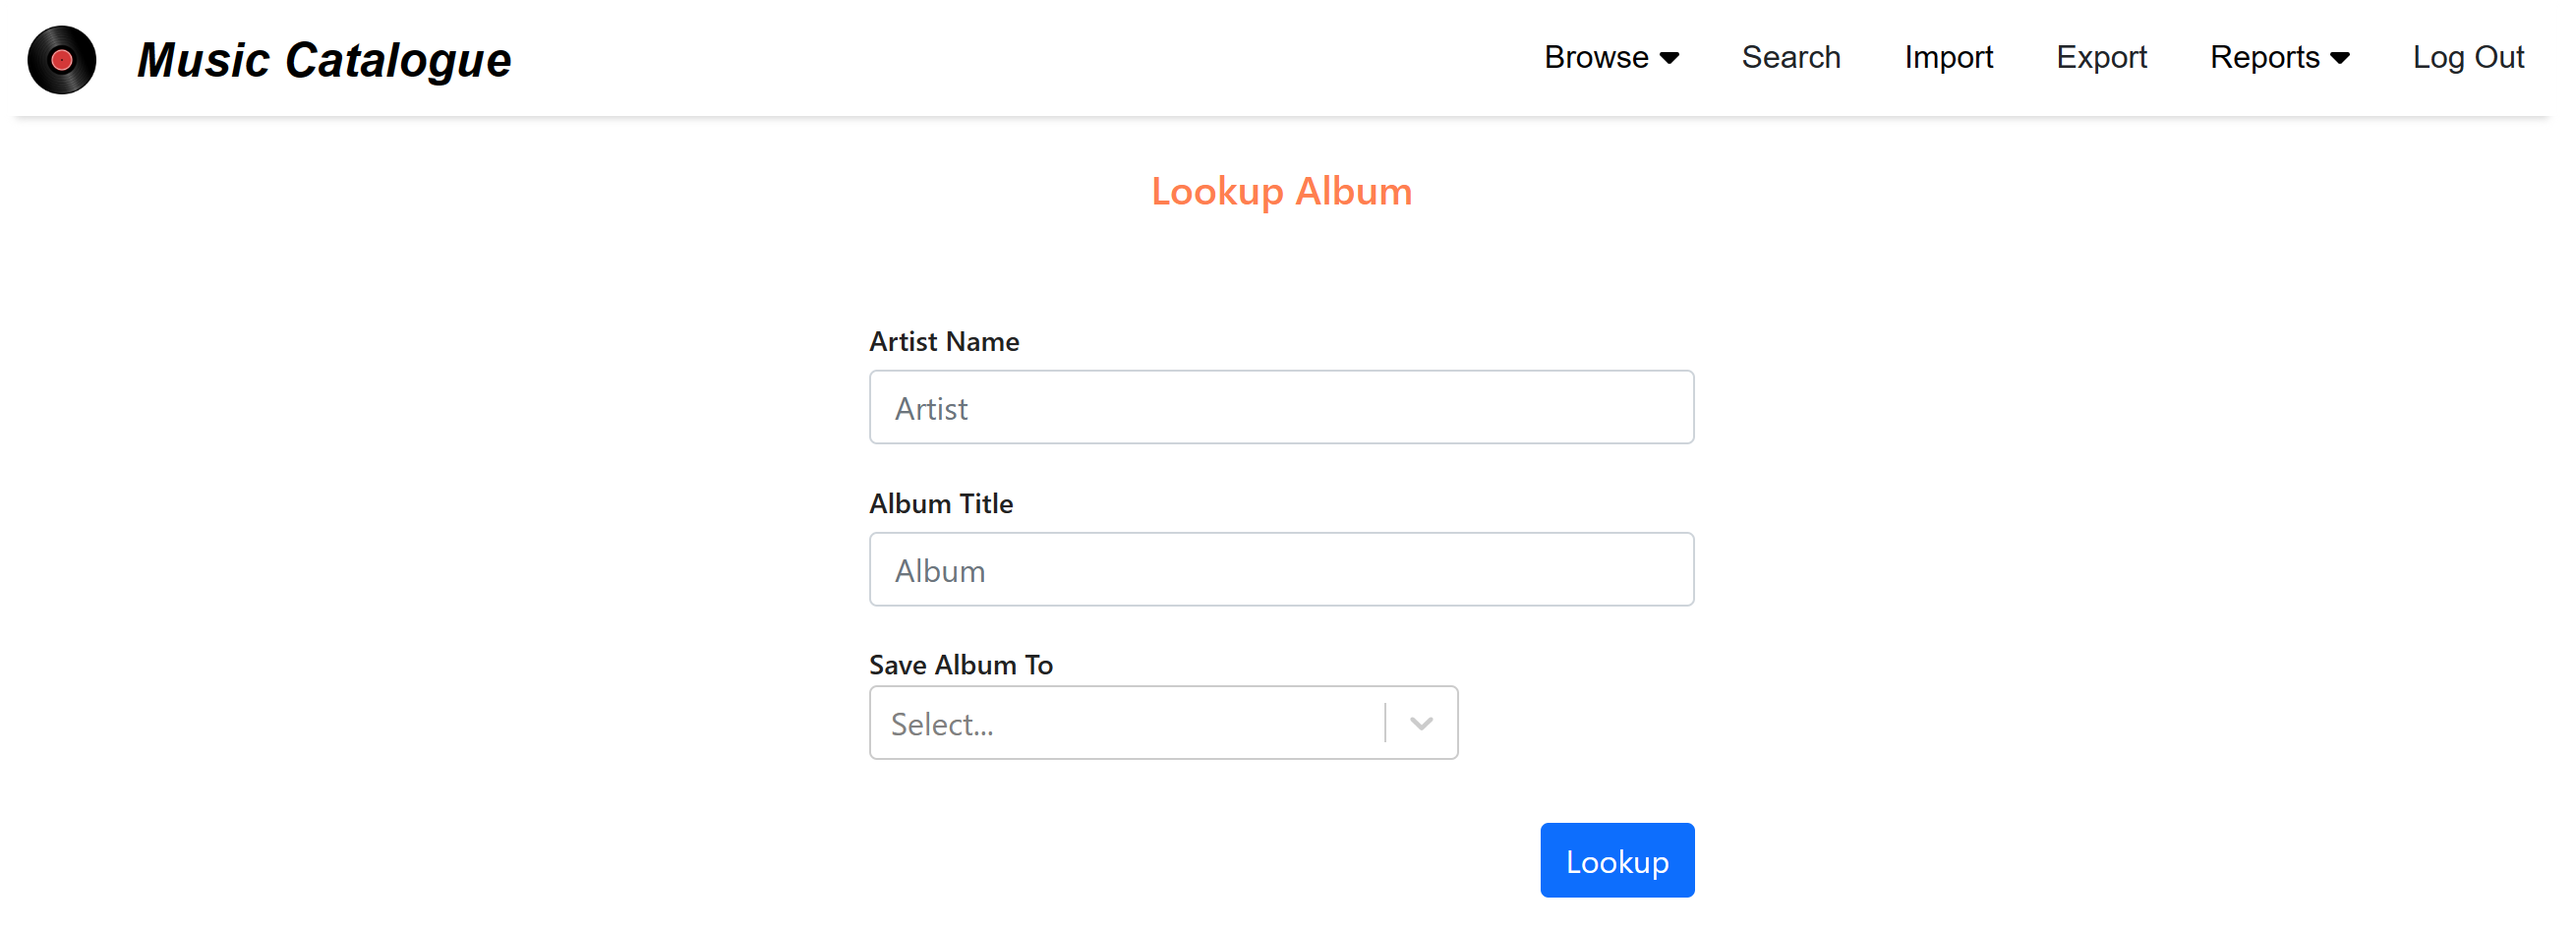
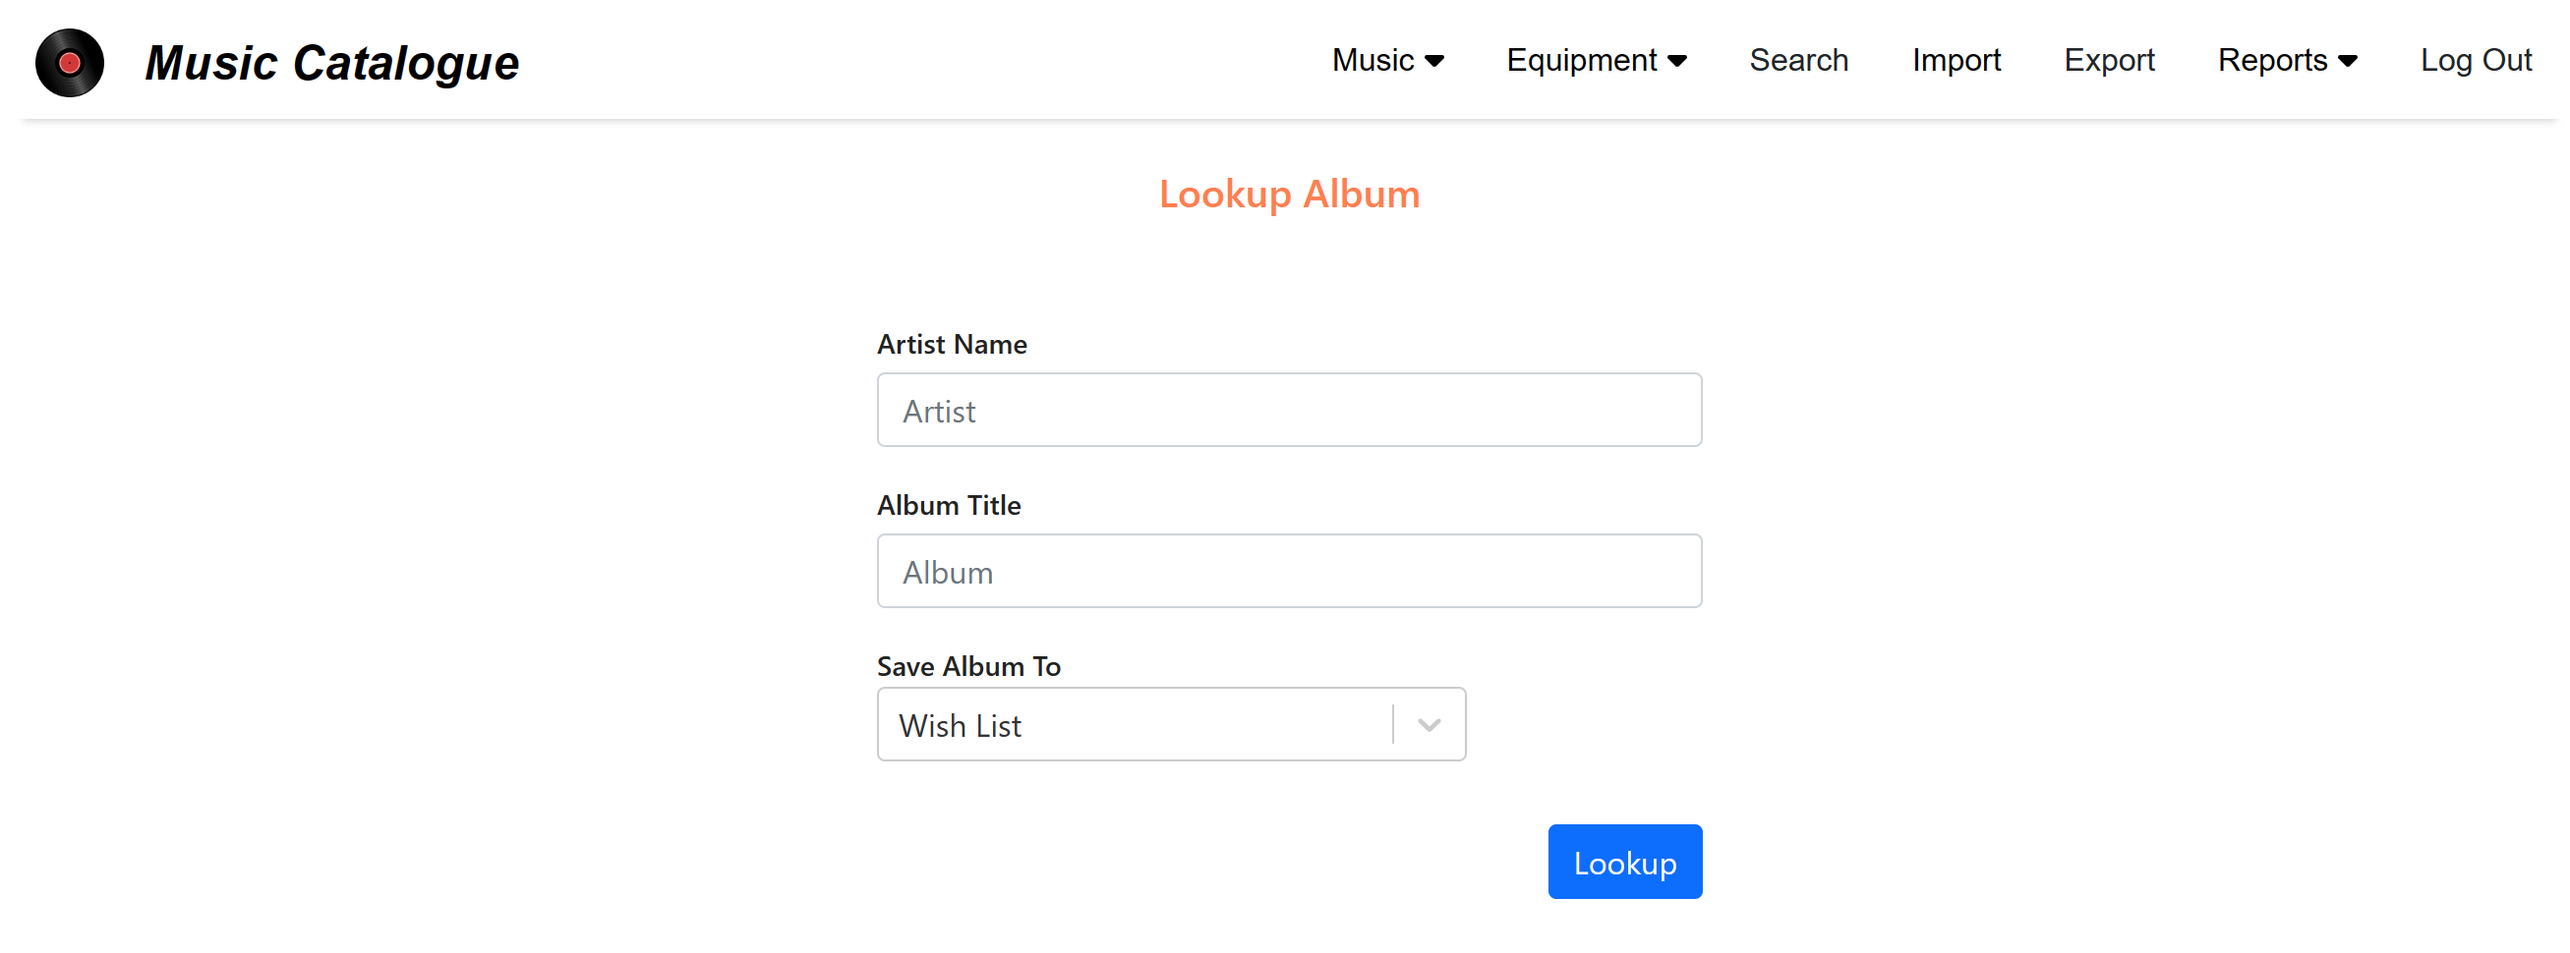
Add equipment type maintenance to the README

diff --git a/README.md b/README.md
@@ -30,8 +30,11 @@
   - A "wish list" of albums with the ability to move albums between the main catalogue and the wish list at will
   - Album search
   - External API integration for looking up new albums
+  - An equipment register browser (equipment, equipment types, manufacturers)
+  - A "wish list" of equipment with the ability to move items between the main register and the wish list at will
   - Data import from CSV format files
   - Data export as CSV or Excel workbooks
+  - Reports and report export as CSV
 - It contains the following components:
 
 | Component    | Language | Purpose                                                            |
@@ -156,12 +159,12 @@ MusicCatalogue.LookupTool --lookup "John Coltrane" "Blue Train" catalogue
 - This authenticates with the web service (see below), so a valid login in the local database is required
 - Instructions on adding a user to the database are given in the "Database Users" section, below
 
-### Browsing the Catalogue
+### Browsing the Music Catalogue
 
 #### Main Catalogue
 
 - After logging in, the "Artists" page is displayed, listing the artists currently in the database
-- This acts as the home page for the site and clicking on the "Browse > Artists" menu item or the site logo navigates back to it
+- This acts as the home page for the site and clicking on the "Music > Artists" menu item or the site logo navigates back to it
 
 <img src="diagrams/artist-list.png" alt="Artist List" width="600">
 
@@ -206,7 +209,7 @@ MusicCatalogue.LookupTool --lookup "John Coltrane" "Blue Train" catalogue
 
 #### Browsing By Genre
 
-- To browse by genre, click on the "Browse > Genres" menu item
+- To browse by genre, click on the "Music > Genres" menu item
 - A page listing the genres derived from all albums in the //main catalogue// is displayed
 
 <img src="diagrams/genre-list.png" alt="Genre List" width="600">
@@ -216,7 +219,7 @@ MusicCatalogue.LookupTool --lookup "John Coltrane" "Blue Train" catalogue
 
 #### The Wish List
 
-- To view the wish list, click on the "Browse > Wish List" menu item
+- To view the wish list, click on the "Music > Wish List" menu item
 - A page identical in layout to the "Artists" page is displayed, but with a title indicating that it is the wish list
 - The page operates in an identical manner to the "Artists" page, using the same alphabet filter
 - Clicking on a row in the table navigates to the wish list for that artist:
@@ -230,7 +233,7 @@ MusicCatalogue.LookupTool --lookup "John Coltrane" "Blue Train" catalogue
 
 #### The Retailers List
 
-- To view a list of retailers in the database, click on the "Browse > Retailers" menu item
+- To view a list of retailers in the database, click on the "Music > Retailers" menu item
 - A page listing the retailers in the database is displayed:
 
 <img src="diagrams/retailer-list.png" alt="Retailers List" width="600">
@@ -251,6 +254,39 @@ MusicCatalogue.LookupTool --lookup "John Coltrane" "Blue Train" catalogue
 <img src="diagrams/retailer-editor.png" alt="Retailer Details" width="600">
 
 - Clicking on the globe icon next to the postcode entry will geocode the current address and populate the latitude and longitude with the results
+
+### Browsing the Equipment Register
+
+#### Main Catalogue
+
+To be implemented in a future release.
+
+#### Wish List
+
+To be implemented in a future release.
+
+### Equipment Types
+
+- To view a list of equipment types in the database, click on the "Equipment > Equipment Types" menu item
+- A page listing the equpiment types in the database is displayed:
+
+<img src="diagrams/equipment-types-list.png" alt="Equipment Types List" width="600">
+
+- Clicking on the trash can icon in a row will prompt for confirmation and then attempt to delete the equipment type on the selected row
+- Equipment types that are currently "in use" (associated with an item of equpiment) cannot be deleted and attempting to delete them will result in an error message being displayed
+- Clicking on the "Add" button opens the equpiment type editing page (see below) to add a new equpiment type
+- Clicking on the edit icon in a row navigates to the equpiment type editing page for that equpiment type (see below)
+
+<img src="diagrams/equipment-type-editor.png" alt="Equipment Type Editor" width="600">
+
+### Manufacturers
+
+To be implemented in a future release.
+
+#### The Retailers List
+
+- To view a list of retailers in the database, click on the "Equipment > Retailers" menu item
+- This opens the page described under "Browsing the Music Catalogue", above
 
 ### Album Lookup
 
